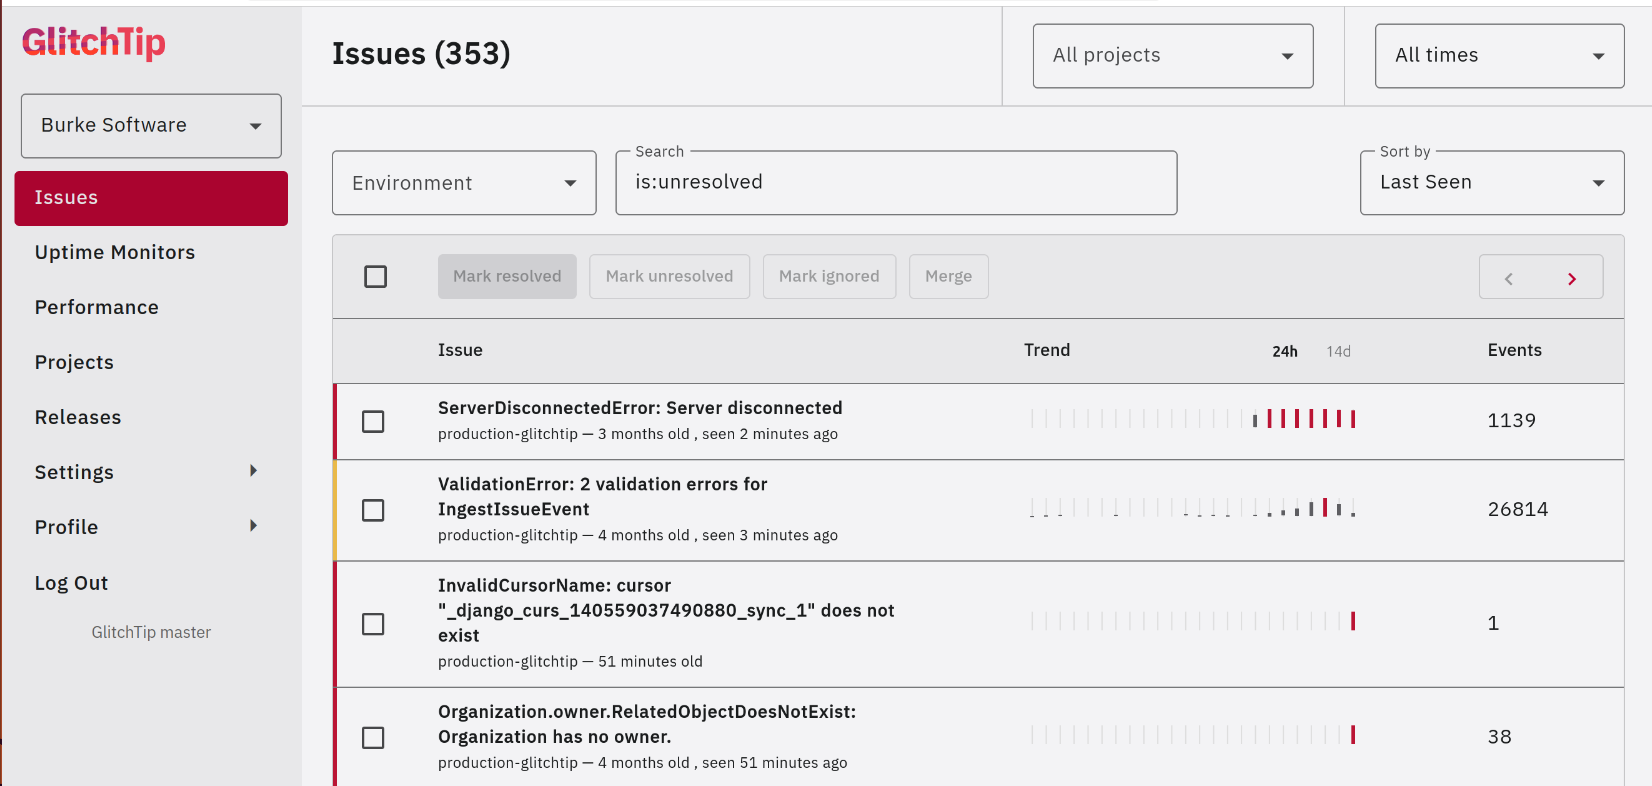
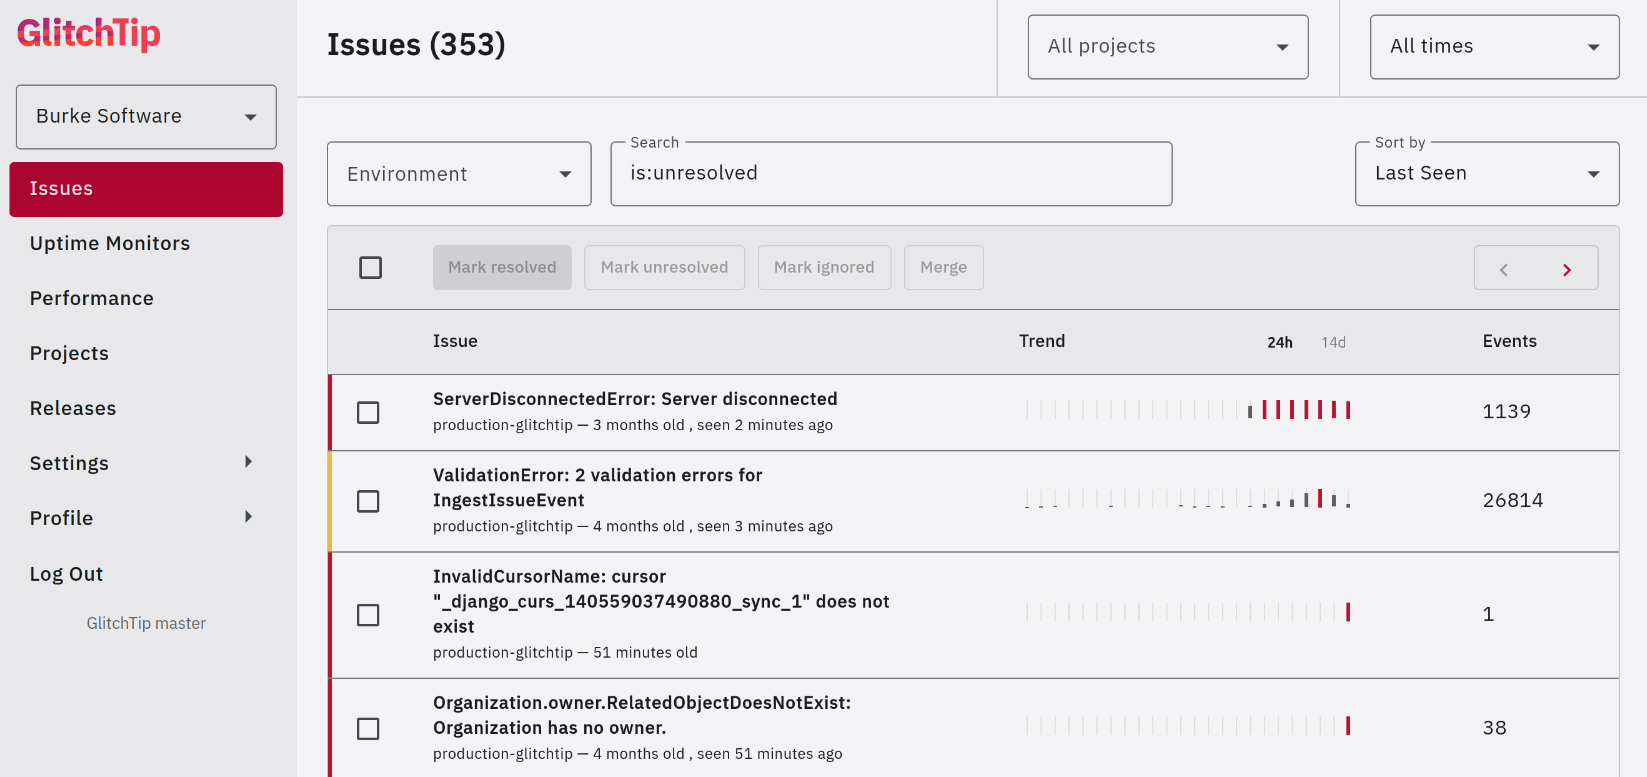
Blog text edits and crop screenshot

diff --git a/projects/marketing/public/blog/2025-11-13-glitchtip-5-2-released.md b/projects/marketing/public/blog/2025-11-13-glitchtip-5-2-released.md
@@ -28,7 +28,7 @@ Our existing (experimental) `bin/start-all-in-one.sh` script has been updated to
 
 Adventurous users should try this out and report any issues on GitLab. With Docker Compose, you can set the command to `bin/start-all-in-one.sh` and remove the worker/beat services.
 
-Our settings have also been slightly simplified. DISABLE_SERVER_SIDE_CURSORS now defaults to False, as this setting leads to errors when using more than one app server. Over time, we are moving to a model where more settings have "just works" defaults, but can still be overwritten by advanced users. We don't intend any of these changes to be breaking, but if you do have a problem, then please open a GitLab issue.
+Our settings have also been slightly simplified. `DISABLE_SERVER_SIDE_CURSORS` now defaults to False, as this setting leads to errors when using more than one app server. Over time, we are moving to a model where more settings have "just works" defaults, but can still be overwritten by advanced users. We don't intend any of these changes to be breaking, but if you do have a problem, then please open a GitLab issue.
 
 Finally our design refresh uses slightly LESS JavaScript.
 